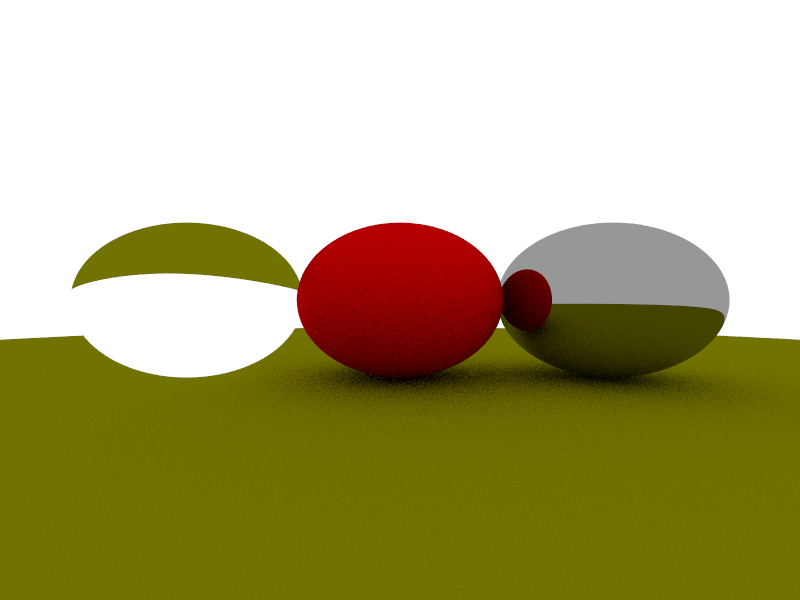
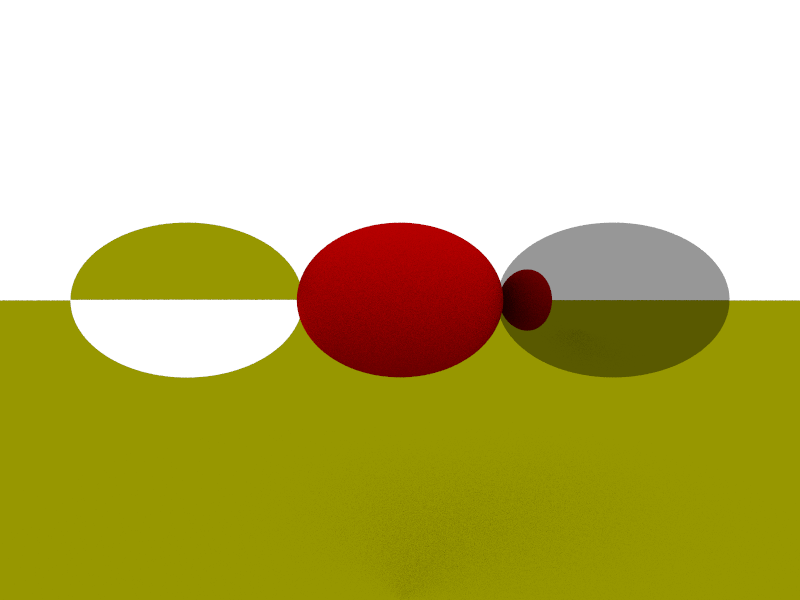
Refactored Hitables, added planes

diff --git a/src/tracer/geometry.rs b/src/tracer/geometry.rs
@@ -1,42 +1,72 @@
 use super::ray::*;
-use super::material;
+use super::material::*;
 use cgmath::*;
 use rand::*;
 
 pub trait Hitable {
     fn hit(&self, r: &Ray, t_max: f64) -> f64;
+    fn get_center(&self) -> &Vector3<f64>;
+    fn get_radius(&self) -> f64;
+    fn get_color(&self) -> &Vector3<f64>;
+    fn get_material(&self) -> &Material;
+}
+
+pub struct Plane<'a> {
+    origin: Vector3<f64>,
+    normal: Vector3<f64>,
+    color:  Vector3<f64>,
+    mat:    &'a Material
+}
+
+impl<'a> Plane<'a> {
+    pub fn new(org: Vector3<f64>, n: Vector3<f64>, col: Vector3<f64>, m: &'a Material) -> Plane<'a> {
+        Plane { origin: org, normal: n, color: col, mat: m }
+    }
+}
+
+impl<'a> Hitable for Plane<'a> {
+    fn hit(&self, r: &Ray, t_max: f64) -> f64 {
+        let denom = r.direction().dot(self.normal);
+        if denom.abs() > 0.001 {
+            let t = (self.origin - r.origin()).dot(self.normal)/denom;
+            if t >= 0.001 && t < t_max {
+                return t;
+            }
+        }
+        0.0
+    }
+
+    fn get_center(&self) -> &Vector3<f64> {
+        &self.origin
+    }
+
+    fn get_radius(&self) -> f64 {
+        0.0
+    }
+
+    fn get_color(&self) -> &Vector3<f64> {
+        &self.color
+    }
+
+    fn get_material(&self) -> &Material {
+        self.mat
+    }
 }
 
 pub struct Sphere<'a> {
     color: Vector3<f64>,
     radius: f64,
     center: Vector3<f64>,
-    mat: &'a material::Material,
-    inter: f64,
+    mat: &'a Material
 }
 
 impl<'a> Sphere<'a> {
-    pub fn new(col: Vector3<f64>, r: f64, c: Vector3<f64>, m: &'a material::Material) -> Sphere<'a> {
-        Sphere { color: col, radius: r, center: c, mat: m, inter: 0.0 }
-    }
-
-    pub fn get_center(&self) -> &Vector3<f64> {
-        &self.center
-    }
-
-    pub fn get_radius(&self) -> f64 {
-        self.radius
-    }
-
-    pub fn get_color(&self) -> &Vector3<f64> {
-        &self.color
-    }
-
-    pub fn get_inter(&self) -> f64 {
-        self.inter
+    pub fn new(col: Vector3<f64>, r: f64, c: Vector3<f64>, m: &'a Material) -> Sphere<'a> {
+        Sphere { color: col, radius: r, center: c, mat: m }
     }
 }
 
+//https://en.wikipedia.org/wiki/Line%E2%80%93sphere_intersection
 impl<'a> Hitable for Sphere<'a> {
     fn hit(&self, r: &Ray, t_max: f64) -> f64 {
         let oc = r.origin() - self.center;
@@ -46,15 +76,29 @@ impl<'a> Hitable for Sphere<'a> {
         let discriminant = b*b - a*c;
         let t = (-b - discriminant.sqrt())/a;
         if (t < t_max) && (t > 0.001) {
-            //self.inter = t;
             return t;
         }
         let t = (-b + discriminant.sqrt())/a;
         if (t < t_max) && (t > 0.001) {
-            //self.inter = t;
             return t;
         }
         0.0
+    }
+
+    fn get_center(&self) -> &Vector3<f64> {
+        &self.center
+    }
+
+    fn get_radius(&self) -> f64 {
+        self.radius
+    }
+
+    fn get_color(&self) -> &Vector3<f64> {
+        &self.color
+    }
+
+    fn get_material(&self) -> &Material {
+        self.mat
     }
 }
 
@@ -69,10 +113,10 @@ pub fn rand_usphere() -> Vector3<f64> {
 }
 
 //Returns the distance to the closest object.
-pub fn scene_intersection(ray: &Ray, table: &[Sphere]) -> f64 {
+pub fn scene_intersection(ray: &Ray, table: &[&Hitable]) -> f64 {
     let mut t = std::f64::MAX;
-    for sphere in table {
-        let t2 = sphere.hit(ray, std::f64::MAX);
+    for hitable in table {
+        let t2 = hitable.hit(ray, std::f64::MAX);
         if t > t2 && t2 != 0.0 {
             t = t2;
         }
@@ -85,20 +129,20 @@ pub fn scene_intersection(ray: &Ray, table: &[Sphere]) -> f64 {
     t
 }
 
-pub fn color(ray: &Ray, table: &[Sphere], depth: i64, t_max: f64) -> Vector3<f64> {
+pub fn color(ray: &Ray, table: &[&Hitable], depth: i64, t_max: f64) -> Vector3<f64> {
     let t = scene_intersection(ray, table);
-    for sphere in table {
-        let t2 = sphere.hit(ray, t_max);
+    for hitable in table {
+        let t2 = hitable.hit(ray, t_max);
         if t != t2 {
             //println!("t Value: {}", t);
             continue;
         }
         let p = ray.point_at_parameter(t2);
-        let n = p - sphere.get_center();
+        let n = p - hitable.get_center();
         let n = n/n.magnitude();
         if t > 0.001 && depth < 5 {
-            let col = color(&sphere.mat.scatter(ray, &n, &p), &table, depth+1, t_max);
-            return 0.5 * Vector3::new(sphere.get_color().x * col.x, sphere.get_color().y * col.y, sphere.get_color().z * col.z);
+            let col = color(&hitable.get_material().scatter(ray, &n, &p), &table, depth+1, t_max);
+            return 0.5 * Vector3::new(hitable.get_color().x * col.x, hitable.get_color().y * col.y, hitable.get_color().z * col.z);
         } 
     }
     //let unit_d = ray.direction()/ray.direction().magnitude();

diff --git a/src/tracer/mod.rs b/src/tracer/mod.rs
@@ -5,41 +5,43 @@ mod ray;
 mod geometry;
 mod camera;
 mod material;
-use std::fs::File;
-use std::io::prelude::*;
 use cgmath::*;
 use rand::*;
-//use cgmath::prelude::*;
 use crate::tracer::image::GenericImage;
 
 pub fn generate(path: &str, width: u32, height: u32) -> std::io::Result<()> {
     let mut img = image::DynamicImage::new_rgb8(width, height);
     let ns = 32;
-    let mut data: Vec<geometry::Sphere> = Vec::new();
+    let mut data: Vec<&geometry::Hitable> = Vec::new();
     let mat_flat = material::Flat{};
     let mat_metal = material::Metal{};
     let mat_glass = material::Dielectric::new(1.5);
 
-    data.push(geometry::Sphere::new(
-        Vector3::new(0.4, 0.4, 0.0), 
-        100.0, Vector3::new(0.0, -100.5, 0.0), 
-        &mat_flat as &material::Material)
-    );
-    data.push(geometry::Sphere::new(
+    let plane1 = geometry::Plane::new(
+        Vector3::new(0.0, -1.0, 0.0),
+        Vector3::new(0.0, 1.0, 0.0),
+        Vector3::new(0.7, 0.7, 0.0),
+        &mat_flat);
+    
+    let sphere2 = geometry::Sphere::new(
         Vector3::new(2.0, 2.0, 2.0), 
         0.5, Vector3::new(-1.0, 0.0, -1.0), 
-        &mat_glass as &material::Material)
-    );
-    data.push(geometry::Sphere::new(
-    Vector3::new(0.7, 0.7, 0.7), 
+        &mat_glass);
+
+    let sphere3 = geometry::Sphere::new(
+        Vector3::new(0.7, 0.7, 0.7), 
         0.5, Vector3::new(1.0, 0.0, -1.0),
-        &mat_metal as &material::Material)
-    );
-    data.push(geometry::Sphere::new(
+        &mat_metal);
+
+    let sphere4 = geometry::Sphere::new(
         Vector3::new(1.0, 0.0, 0.0), 
         0.5, Vector3::new(0.0, 0.0, -1.0),
-        &mat_flat as &material::Material)
-    );
+        &mat_flat);
+
+    data.push(&plane1);
+    data.push(&sphere2);
+    data.push(&sphere3);
+    data.push(&sphere4);
 
     let cam = camera::Camera::new(
         Vector3::new(0.0, 0.0, 1.0),
